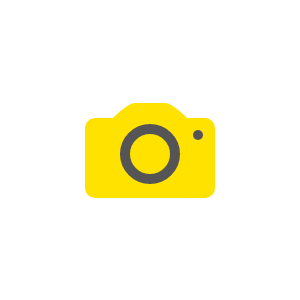
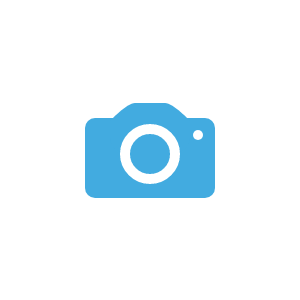
change main color to bahaso blue

Changed region(s): [[0.27, 0.33, 0.72, 0.66]]

diff --git a/index.v114.css b/index.v114.css
@@ -30,8 +30,8 @@ body {
     width: 250px;
     margin: 0 auto 40px;
     padding: 35px 0 15px;
-    color: #555555;
-    background-color: #FFE200;
+    color: #FFFFFF;
+    background-color: #42ABE0;
     font-weight: 400;
     text-align: center;
 }
@@ -55,7 +55,7 @@ body {
 
 .form-input-separator {
     padding: 5px 0;
-    color: #fff;
+    color: #FFFFFF;
     font-size: 14px;
     text-align: center;
 }
@@ -81,13 +81,14 @@ body {
 }
 
 .btn-primary {
-    background-color: #FFE200;
+    color: #FFFFFF;
+    background-color: #42ABE0;
     font-weight: 100;
     letter-spacing: 1px;
 }
 
 .btn-google {
-    color: #fff;
+    color: #FFFFFF;
     background-color: #367CFF;
     font-weight: 700;
 }
@@ -174,6 +175,7 @@ body {
     text-align: center;
     background-image: url('upload.png');
     background-size: cover;
+    background-position: center;
     cursor: pointer;
 }
 

diff --git a/index.html b/index.html
@@ -7,7 +7,7 @@
         <title>Bahaso Sketch</title>
         <link rel="icon" href="logo.png">
         <link rel="stylesheet" href="https://fonts.googleapis.com/css?family=Lato:100,300,700">
-        <link rel="stylesheet" href="index.v113.css">
+        <link rel="stylesheet" href="index.v114.css">
     </head>
     <body>
         <div class="container">
@@ -64,6 +64,6 @@
         </div>
         <script src="https://www.gstatic.com/firebasejs/4.1.1/firebase.js"></script>
         <script src="https://cdnjs.cloudflare.com/ajax/libs/jquery/3.2.1/jquery.min.js"></script>
-        <script src="index.v113.js"></script>
+        <script src="index.v114.js"></script>
     </body>
 </html>
